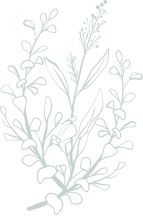
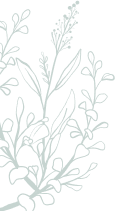
fix: adjusts the flowers and map

Changed region(s): [[0.0, 0.0, 1.0, 1.0], [0.6783, 0.3981, 0.7043, 0.4265], [0.5739, 0.455, 0.6, 0.4834]]

diff --git a/src/app/landing/landing.component.scss b/src/app/landing/landing.component.scss
@@ -72,7 +72,7 @@ $page-padding: 0 5rem;
     }
   }
   .hero-section {
-    min-height: 300px;
+    min-height: 600px;
     display: grid;
     grid-template-columns: 2fr 1fr;
     margin-top: 4rem;
@@ -203,14 +203,13 @@ $page-padding: 0 5rem;
     .flower-12 {
       position: absolute;
       left: 0;
-      bottom: 0;
+      bottom: -40px;
       z-index: -1;
     }
     .flower-4 {
       position: absolute;
       right: 0;
-      top: 0;
-      transform: rotate(-180deg);
+      top: -40px;
       z-index: -1;
     }
   }
@@ -356,17 +355,39 @@ $page-padding: 0 5rem;
       left: 0;
       bottom: 0;
       z-index: -1;
+      transform: scaleX(-1);
+    }
+    .flower-15 {
+      position: absolute;
+      right: 0;
+      top: 0;
+      z-index: -1;
     }
   }
   .contact {
-    background-color: #f7f5f2;
+    background: url(../../assets/imgs/map.png) no-repeat;
+    background-size: 100%;
     display: grid;
     grid-template-columns: 1fr 4fr;
     gap: 8rem;
+    position: relative;
+    z-index: 9;
+    overflow: hidden;
+    .contact-shadow {
+      width: 800px;
+      height: 800px;
+      background-color: var(--color-background);
+      box-shadow: 0px 0px 50px 88px var(--color-background);
+      position: absolute;
+      border-radius: 400px;
+      top: -300px;
+      left: -300px;
+    }
     .contact-details {
       display: flex;
       flex-direction: column;
       gap: 1rem;
+      z-index: 10;
       ul {
         list-style-type: none;
         li {
@@ -379,10 +400,6 @@ $page-padding: 0 5rem;
           }
         }
       }
-    }
-    .contact-map {
-      @extend .box-shadow;
-      border-radius: calc($border-radius * 2);
     }
   }
   .flower-7:before {

diff --git a/src/app/landing/landing.component.html b/src/app/landing/landing.component.html
@@ -121,6 +121,7 @@
   </section>
   <section id="faq" class="faq section">
     <img class="flower-14" src="../../assets/imgs/flower-14.png" alt="Flower">
+    <img class="flower-15" src="../../assets/imgs/flower-15.png" alt="Flower">
     <h2>Perguntas Frequentes</h2>
     <div class="faq-list">
       <div *ngFor="let faq of response.faq"
@@ -155,6 +156,6 @@
         </li>
       </ul>
     </div>
-    <img class="contact-map" src="../../assets/imgs/map.png" alt="Map">
+    <div class="contact-shadow"></div>
   </section>
 </div>
